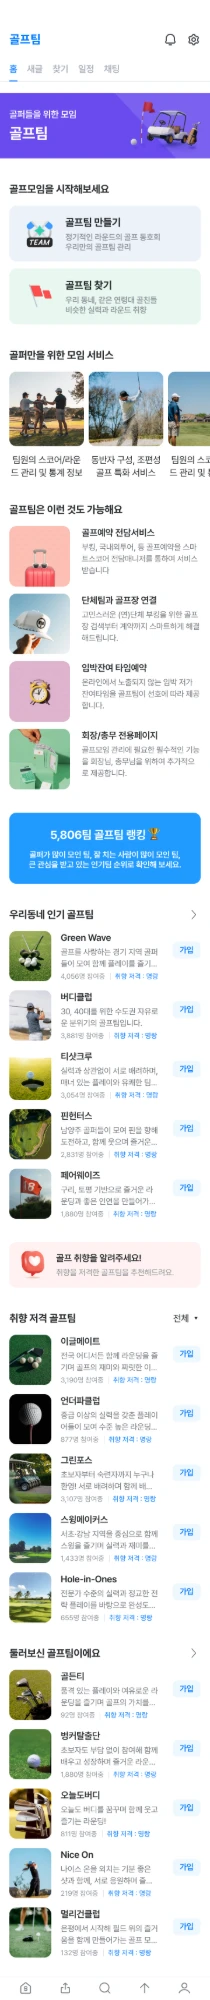
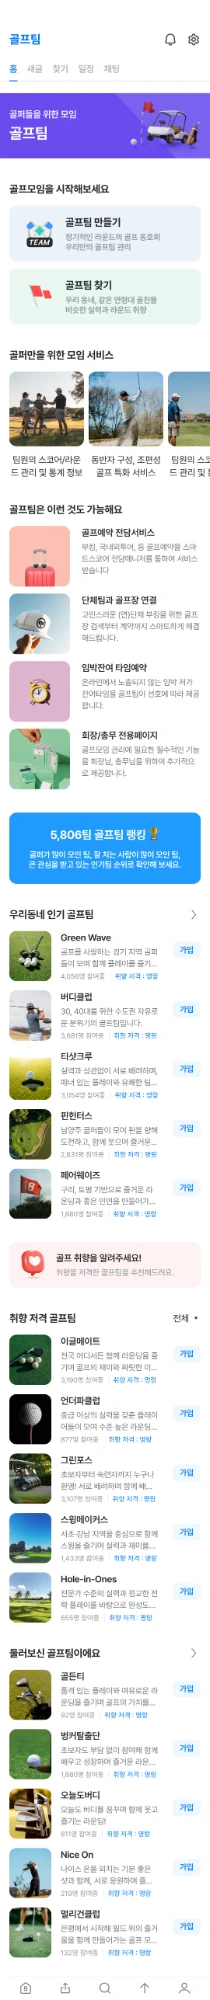
Golf Team 이미지 재교체 및 캐시 무효화(쿼리 버전 추가)
GitHub Pages가 동일 경로 파일을 강하게 캐싱해 이전 교체본이
계속 보이던 문제로 보여, 쿼리스트링 버전을 붙여 확실히 갱신되게 함.

diff --git a/index.html b/index.html
@@ -43,7 +43,7 @@
           <div class="work-card work-card--mockup-slide-two" data-category="app" data-year="2023" data-tags="App" data-media='["mockup"]' style="height: 300px">
             <div class="phone-mockup phone-mockup--two">
               <div class="phone-mockup__screen">
-                <img class="phone-mockup__shot" src="assets/project-two-screen.webp" alt="" />
+                <img class="phone-mockup__shot" src="assets/project-two-screen.webp?v=3" alt="" />
               </div>
               <img class="phone-mockup__frame" src="assets/project-two-frame.webp" alt="" />
             </div>
